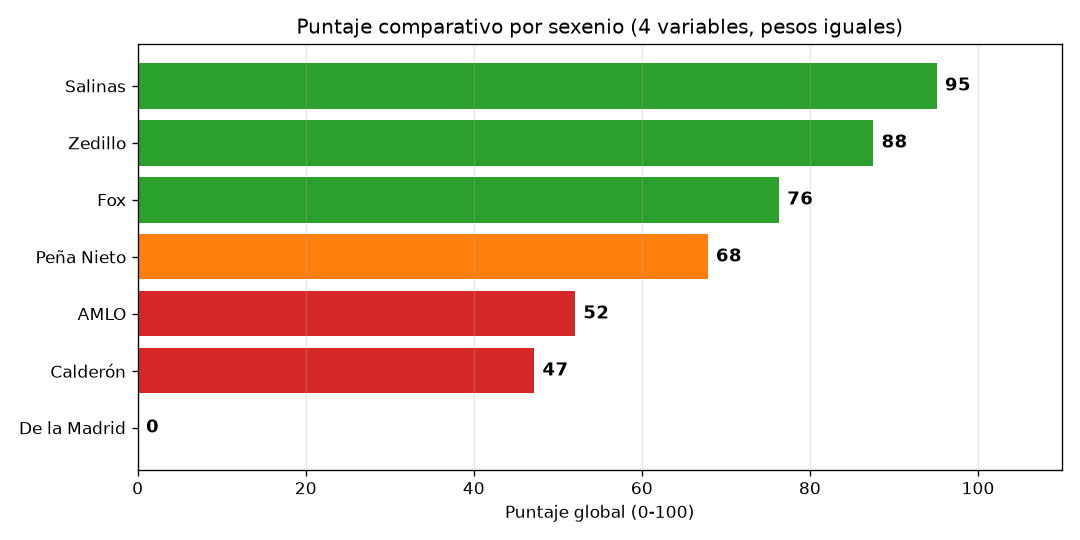
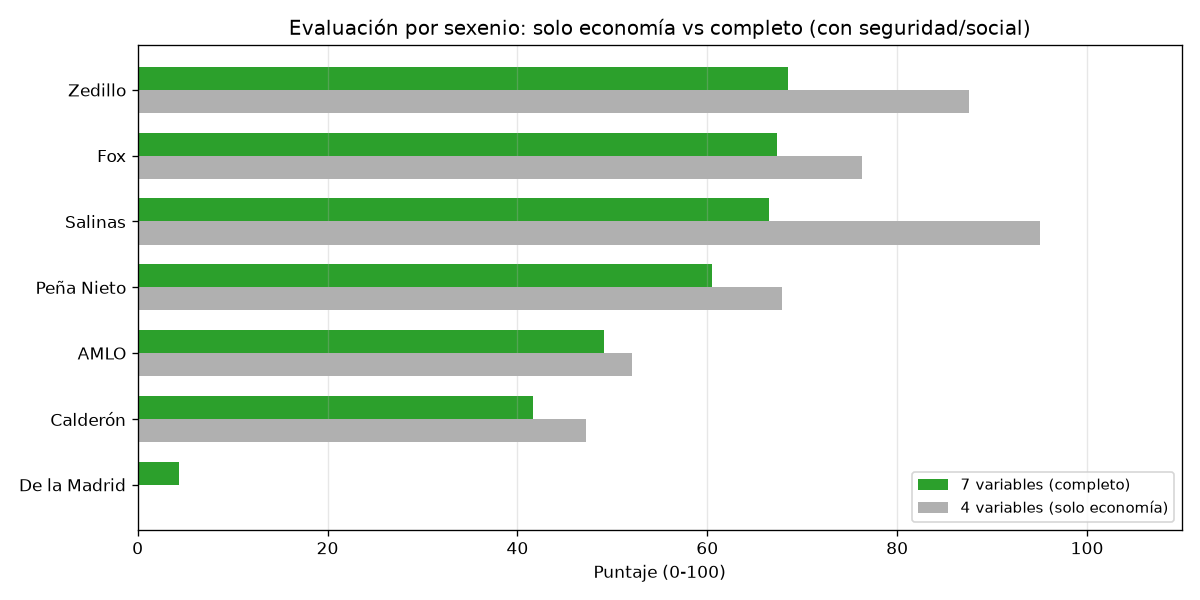
feat: modelo de evaluación ampliado a 7 variables (seguridad, salario real, empleo formal)

diff --git a/scripts/evaluacion_sexenios.py b/scripts/evaluacion_sexenios.py
@@ -3,64 +3,63 @@ import matplotlib
 matplotlib.use('Agg')
 import matplotlib.pyplot as plt
 
-# Datos por sexenio (fuentes ya validadas en el análisis)
-# crec: crecimiento PIB real anual % | percapita: PIB per cápita anual % |
-# inflacion: media geométrica anual % | deuda_pp: cambio en deuda neta/PIB (puntos)
+# 7 variables por sexenio
+# crec: PIB real anual % | percapita: PIB per cápita anual % | inflacion: media geométrica %
+# deuda_pp: cambio deuda/PIB (pp) | homicidios: tasa promedio por 100k (Colmex)
+# salario_real: cambio % del salario mínimo real (80s-90s = estimado, 2000+ = oficial)
+# empleo_formal: millones de empleos IMSS creados (estimado)
 sex = pd.DataFrame([
-    {'sexenio':'De la Madrid','crec':0.1,'percapita':-2.2,'inflacion':83.4,'deuda_pp':np.nan},
-    {'sexenio':'Salinas','crec':4.1,'percapita':2.1,'inflacion':15.6,'deuda_pp':0.0},
-    {'sexenio':'Zedillo','crec':3.3,'percapita':2.0,'inflacion':21.8,'deuda_pp':0.0},
-    {'sexenio':'Fox','crec':1.9,'percapita':0.4,'inflacion':4.4,'deuda_pp':-0.8},
-    {'sexenio':'Calderón','crec':1.7,'percapita':-0.1,'inflacion':4.3,'deuda_pp':14.2},
-    {'sexenio':'Peña Nieto','crec':2.4,'percapita':0.8,'inflacion':4.2,'deuda_pp':7.6},
-    {'sexenio':'AMLO','crec':0.9,'percapita':0.0,'inflacion':5.0,'deuda_pp':8.5},
+    {'sexenio':'De la Madrid','crec':0.1,'percapita':-2.2,'inflacion':83.4,'deuda_pp':np.nan,'homicidios':21.69,'salario_real':-40,'empleo_formal':1.5},
+    {'sexenio':'Salinas','crec':4.1,'percapita':2.1,'inflacion':15.6,'deuda_pp':0.0,'homicidios':17.59,'salario_real':-20,'empleo_formal':2.0},
+    {'sexenio':'Zedillo','crec':3.3,'percapita':2.0,'inflacion':21.8,'deuda_pp':0.0,'homicidios':14.37,'salario_real':-15,'empleo_formal':2.5},
+    {'sexenio':'Fox','crec':1.9,'percapita':0.4,'inflacion':4.4,'deuda_pp':-0.8,'homicidios':10.05,'salario_real':-1,'empleo_formal':2.5},
+    {'sexenio':'Calderón','crec':1.7,'percapita':-0.1,'inflacion':4.3,'deuda_pp':14.2,'homicidios':18.75,'salario_real':-1,'empleo_formal':2.3},
+    {'sexenio':'Peña Nieto','crec':2.4,'percapita':0.8,'inflacion':4.2,'deuda_pp':7.6,'homicidios':22.18,'salario_real':3,'empleo_formal':4.0},
+    {'sexenio':'AMLO','crec':0.9,'percapita':0.0,'inflacion':5.0,'deuda_pp':8.5,'homicidios':25.84,'salario_real':110,'empleo_formal':2.4},
 ])
 
 def minmax(v, higher_better):
     v = v.astype(float)
     lo, hi = v.min(), v.max()
-    if higher_better:
-        return (v - lo) / (hi - lo) * 100
-    else:  # lower better -> invertir
-        return (hi - v) / (hi - lo) * 100
+    return (v - lo) / (hi - lo) * 100 if higher_better else (hi - v) / (hi - lo) * 100
 
-# Normalizar cada variable (0-100)
+# Normalizar (0-100)
 sex['s_crec'] = minmax(sex['crec'], True)
 sex['s_percapita'] = minmax(sex['percapita'], True)
 sex['s_inflacion'] = minmax(sex['inflacion'], False)
-sex['s_deuda'] = minmax(sex['deuda_pp'], False)  # menor aumento = mejor
+sex['s_deuda'] = minmax(sex['deuda_pp'], False)
+sex['s_homicidios'] = minmax(sex['homicidios'], False)
+sex['s_salario'] = minmax(sex['salario_real'], True)
+sex['s_empleo'] = minmax(sex['empleo_formal'], True)
 
-# Puntaje global: promedio de las variables disponibles (pesos iguales)
-cols3 = ['s_crec','s_percapita','s_inflacion']
-cols4 = cols3 + ['s_deuda']
-sex['puntaje_3v'] = sex[cols3].mean(axis=1)
-sex['puntaje_4v'] = sex[cols4].mean(axis=1)  # NaN en de la Madrid (sin dato de deuda)
-
-sex = sex.sort_values('puntaje_4v', ascending=False, na_position='last')
+cols4 = ['s_crec','s_percapita','s_inflacion','s_deuda']
+cols7 = cols4 + ['s_homicidios','s_salario','s_empleo']
+sex['puntaje_4v'] = sex[cols4].mean(axis=1)
+sex['puntaje_7v'] = sex[cols7].mean(axis=1)  # de la Madrid NaN en deuda -> media de 6 disponibles
 sex.to_csv('data/evaluacion_sexenios.csv', index=False, encoding='utf-8')
 
-print('=== PUNTAJE POR SEXENIO (0-100, mayor = mejor) ===')
-print(f'{"Sexenio":14s} {"Crec":>5s} {"PerCáp":>7s} {"Infl":>5s} {"Deuda":>6s} {"GLOBAL":>7s}')
-print('-'*50)
+print('=== PUNTAJE CON 7 VARIABLES (0-100) ===')
+print(f'{"Sexenio":13s} {"Crec":>4s} {"Infl":>4s} {"Deuda":>5s} {"Homic":>5s} {"Salario":>7s} {"Empleo":>6s} {"GLOBAL":>7s}')
 for _, r in sex.iterrows():
-    deuda = f"{r.s_deuda:6.0f}" if pd.notna(r.s_deuda) else '   n/d'
-    print(f'{r.sexenio:14s} {r.s_crec:5.0f} {r.s_percapita:7.0f} {r.s_inflacion:5.0f} {deuda} {r.puntaje_4v:7.1f}')
+    print(f'{r.sexenio:13s} {r.s_crec:4.0f} {r.s_inflacion:4.0f} {r.s_deuda:5.0f} {r.s_homicidios:5.0f} {r.s_salario:7.0f} {r.s_empleo:6.0f} {r.puntaje_7v:7.1f}')
 
-print('\n=== RANKING (puntaje global) ===')
-ranking = sex.dropna(subset=['puntaje_4v']).sort_values('puntaje_4v', ascending=False)
-for i, (_, r) in enumerate(ranking.iterrows(), 1):
-    print(f'  {i}. {r.sexenio:14s} {r.puntaje_4v:5.1f}')
-print(f'  (De la Madrid: {sex[sex.sexenio=="De la Madrid"].puntaje_3v.iloc[0]:.1f} en 3 variables, sin dato de deuda)')
+print('\n=== RANKING: 4 variables vs 7 variables ===')
+r4 = sex.sort_values('puntaje_4v', ascending=False)
+r7 = sex.sort_values('puntaje_7v', ascending=False)
+print(f'{"Pos":>4s} {"4 variables (solo economía)":34s} {"7 variables (completo)":30s}')
+for i in range(7):
+    print(f'{i+1:>4d} {r4.iloc[i].sexenio + " " + str(round(r4.iloc[i].puntaje_4v)):34s} {r7.iloc[i].sexenio + " " + str(round(r7.iloc[i].puntaje_7v)):30s}')
 
-# ---- gráfico: barras del puntaje global ----
-fig, ax = plt.subplots(figsize=(9, 4.5))
-plot = sex.dropna(subset=['puntaje_4v']).sort_values('puntaje_4v')
-colores = ['#2ca02c' if p >= 75 else '#ff7f0e' if p >= 55 else '#d62728' for p in plot['puntaje_4v']]
-ax.barh(plot['sexenio'], plot['puntaje_4v'], color=colores)
-for i, r in plot.iterrows():
-    ax.text(r.puntaje_4v + 1, list(plot['sexenio']).index(r.sexenio), f"{r.puntaje_4v:.0f}", va='center', fontsize=11, fontweight='bold')
-ax.set_xlabel('Puntaje global (0-100)'); ax.set_xlim(0, 110)
-ax.set_title('Puntaje comparativo por sexenio (4 variables, pesos iguales)')
-ax.grid(alpha=0.3, axis='x')
+# gráfico comparativo 4v vs 7v
+fig, ax = plt.subplots(figsize=(10, 5))
+r = sex.sort_values('puntaje_7v')
+x = np.arange(len(r))
+w = 0.35
+ax.barh(x + w/2, r['puntaje_7v'], w, color='#2ca02c', label='7 variables (completo)')
+ax.barh(x - w/2, r['puntaje_4v'], w, color='#b0b0b0', label='4 variables (solo economía)')
+ax.set_yticks(x); ax.set_yticklabels(r['sexenio'])
+ax.set_xlabel('Puntaje (0-100)'); ax.set_xlim(0, 110)
+ax.set_title('Evaluación por sexenio: solo economía vs completo (con seguridad/social)')
+ax.legend(fontsize=9); ax.grid(alpha=0.3, axis='x')
 plt.tight_layout(); plt.savefig('results/evaluacion_sexenios.png', dpi=120); plt.close()
 print('\nGuardado: data/evaluacion_sexenios.csv + results/evaluacion_sexenios.png')

diff --git a/app.py b/app.py
@@ -214,20 +214,29 @@ st.markdown("---")
 
 # 10. Evaluación de sexenios
 st.header("10 · Evaluación de sexenios (puntaje comparativo)")
-ev = pd.read_csv("data/evaluacion_sexenios.csv").sort_values("puntaje_4v", ascending=False)
-ev["puntaje"] = ev["puntaje_4v"].fillna(ev["puntaje_3v"])
+ev = pd.read_csv("data/evaluacion_sexenios.csv").sort_values("puntaje_7v", ascending=False)
+ev["puntaje"] = ev["puntaje_7v"]
+ev["puntaje_4v_disp"] = ev["puntaje_4v"]
 st.markdown("""
-Modelo: 4 variables (crecimiento PIB, PIB per cápita, inflación, cambio en deuda/PIB),
-normalizadas 0-100 (mejor=100, peor=0) y promediadas con pesos iguales.
+Modelo: **7 variables** — crecimiento PIB, PIB per cápita, inflación, deuda/PIB, **seguridad (homicidios)**,
+**salario real** y **empleo formal** — normalizadas 0-100 y promediadas con pesos iguales.
 """)
 fig_ev = go.Figure()
-cols = ["#2ca02c" if p >= 75 else "#ff7f0e" if p >= 55 else "#d62728" for p in ev["puntaje"]]
+cols = ["#2ca02c" if p >= 55 else "#ff7f0e" if p >= 42 else "#d62728" for p in ev["puntaje"]]
 fig_ev.add_trace(go.Bar(x=ev["sexenio"], y=ev["puntaje"], marker_color=cols,
                         text=[f"{p:.0f}" for p in ev["puntaje"]], textposition="outside"))
-fig_ev.update_layout(height=380, margin=dict(l=0, r=0, t=10, b=0), yaxis=dict(range=[0, 110]),
-                     yaxis_title="Puntaje (0-100)")
+# comparación: solo economía (4v) en gris
+fig_ev.add_trace(go.Scatter(x=ev["sexenio"], y=ev["puntaje_4v_disp"], mode="markers",
+                            marker=dict(color="#808080", size=9), name="Solo economía (4 variables)"))
+fig_ev.update_layout(height=400, margin=dict(l=0, r=0, t=10, b=0), yaxis=dict(range=[0, 110]),
+                     yaxis_title="Puntaje (0-100)", legend=dict(orientation="h", yanchor="bottom", y=1.02))
 st.plotly_chart(fig_ev, use_container_width=True)
-st.warning("**Caveats honestos:** (1) el puntaje NO ajusta por shocks externos — Zedillo absorbió la crisis de "
-           "1994, Calderón la de 2009 y AMLO la pandemia. (2) Faltan dimensiones clave: **seguridad**, empleo, "
-           "salario real e instituciones (el narco/la violencia bajarían el puntaje de Calderón, Peña y AMLO). "
-           "(3) Los pesos son subjetivos. Es una herramienta para comparar, no una verdad objetiva.")
+st.info("**Cómo cambia al agregar seguridad y dimensión social:** con solo economía, ganaba Salinas (95); al sumar "
+        "homicidios, salario y empleo, **el podio se compacta**: Zedillo (68), Fox (67) y Salinas (67) quedan "
+        "prácticamente empatados — los puntos grises muestran dónde estaba cada uno con solo economía. "
+        "Salinas baja porque su sexenio tuvo colapso salarial y violencia; AMLO sube en salario real (100) pero "
+        "se hunde en seguridad (0, el sexenio más violento).")
+st.warning("**Caveats honestos:** (1) no ajusta por shocks externos (Zedillo absorbió 1994, Calderón 2009, AMLO la "
+           "pandemia). (2) Salario real y empleo de los 80-90 son estimaciones, no cifras duras. (3) Siguen faltando "
+           "instituciones/estado de derecho, corrupción y desigualdad. (4) Los pesos son subjetivos. Es una herramienta "
+           "para comparar, no una verdad objetiva.")
